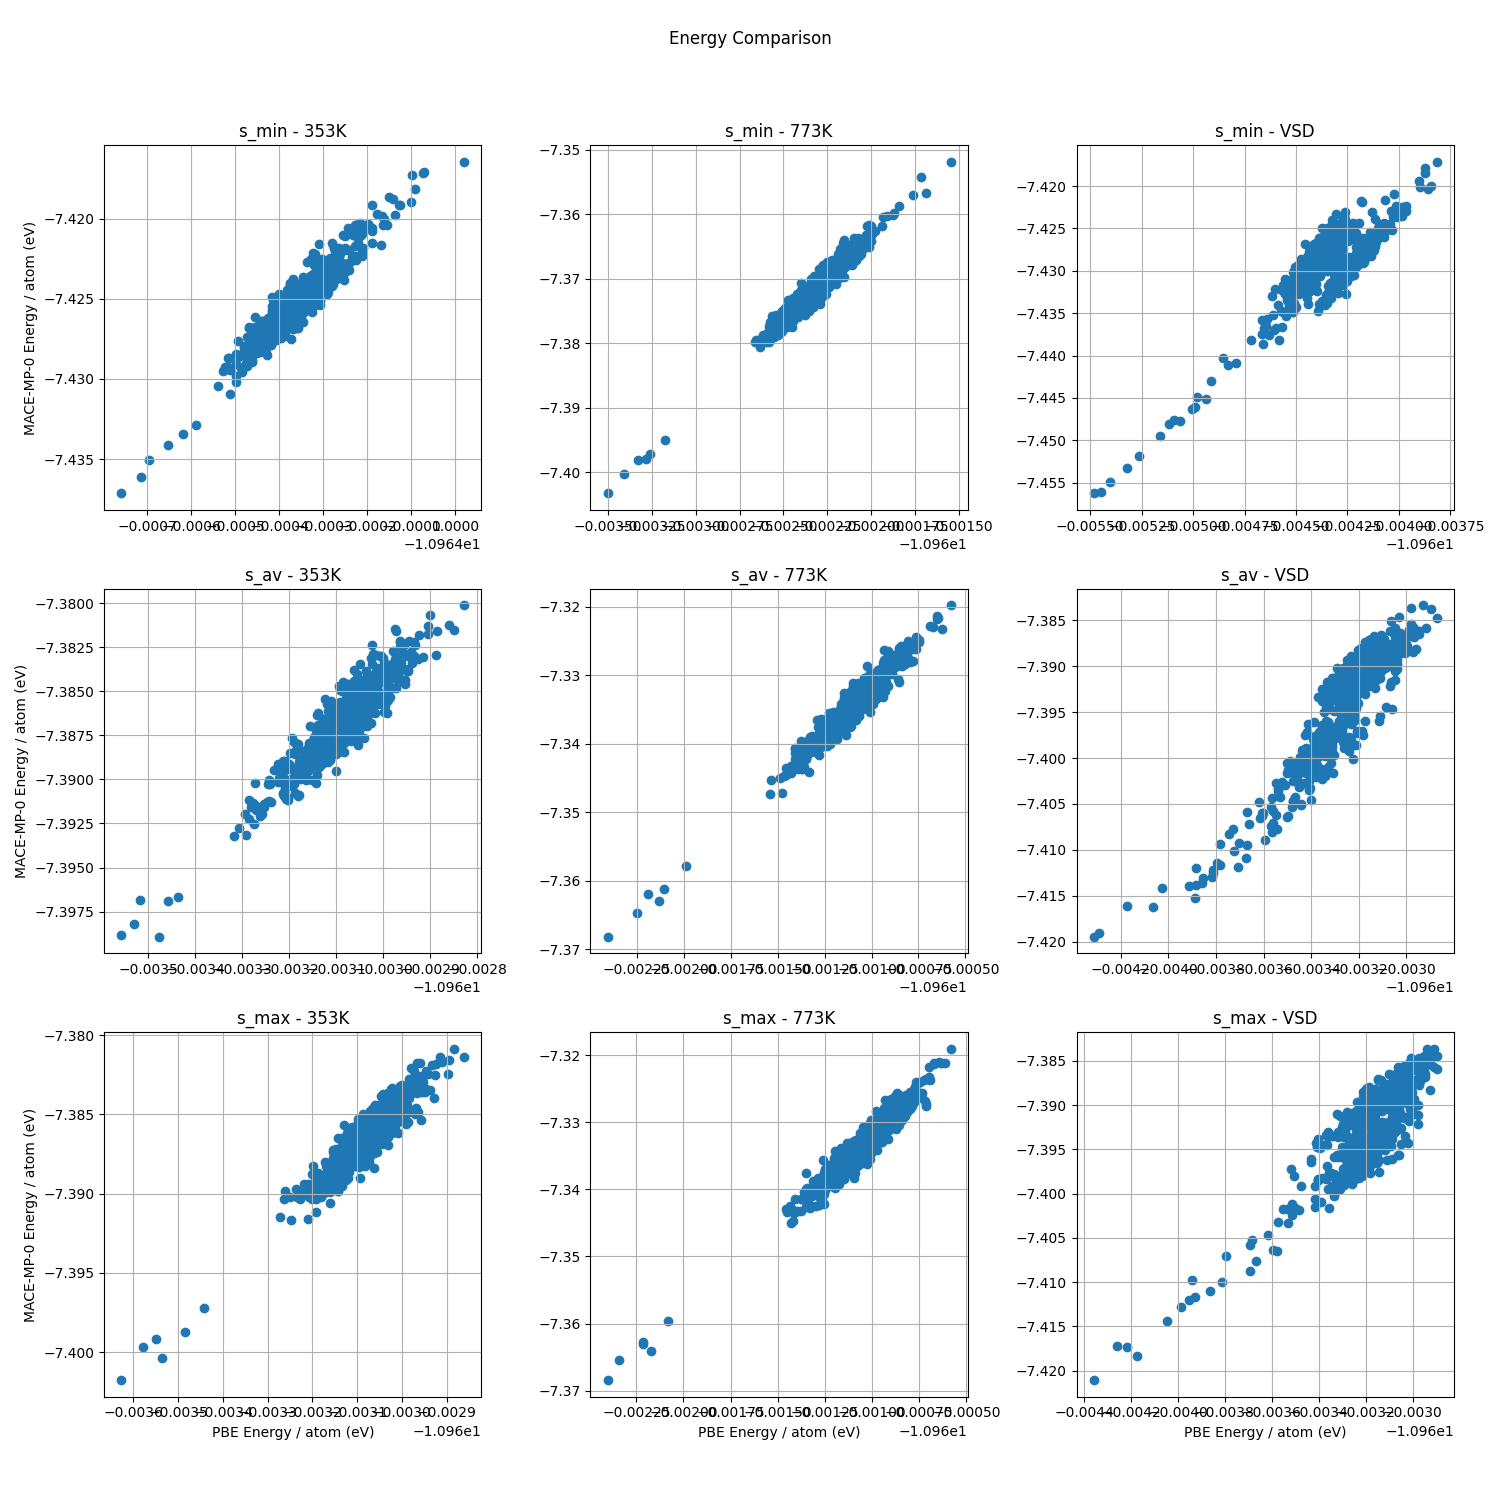
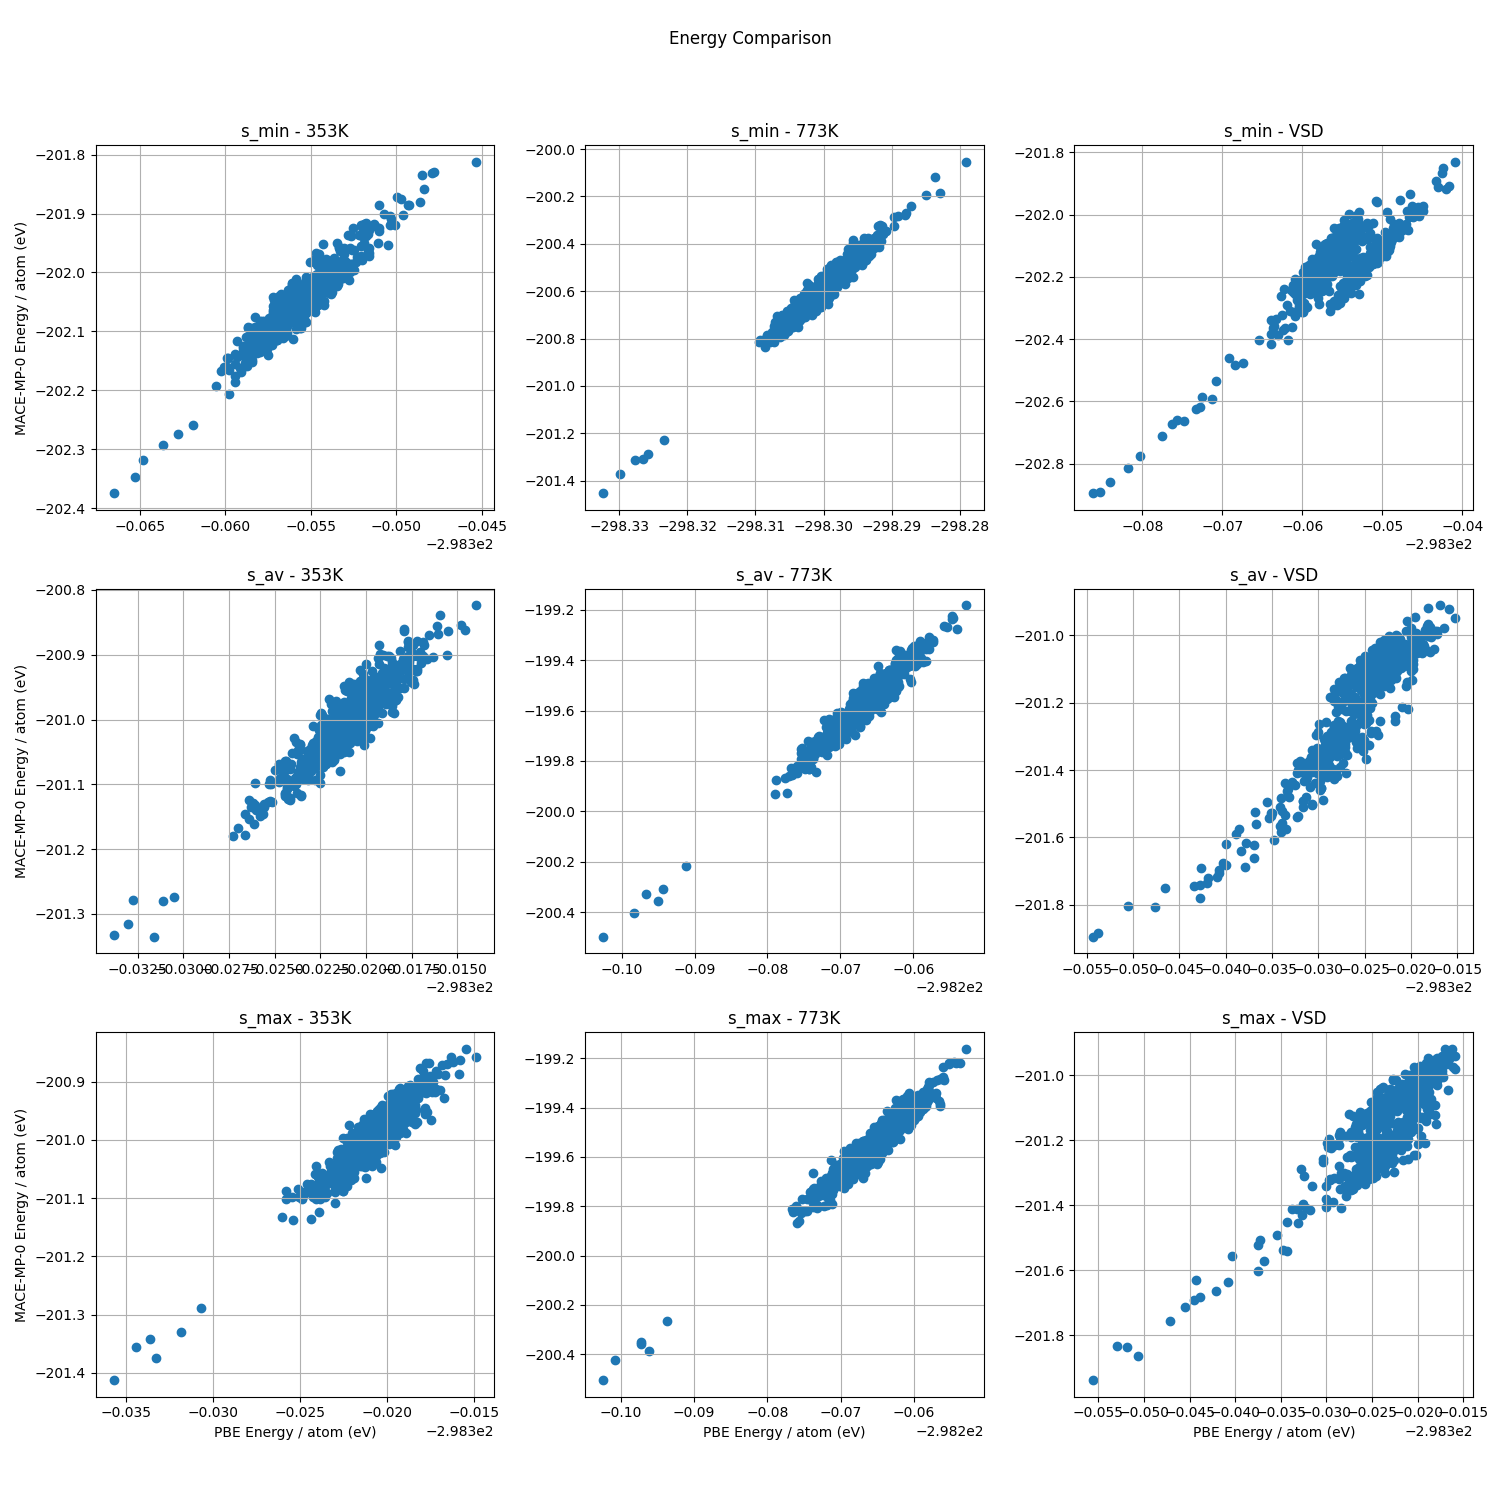
Update plots, convert units

diff --git a/ASE/plot_forces_energy.py b/ASE/plot_forces_energy.py
@@ -6,7 +6,7 @@ def load_npz_data(base_path, strain_surface, sim_type, temp_folder, file_name):
     """
     Loads npz data for a specific strain surface, simulation type, and temperature folder.
 
-    This function constructs the path to an npz file using the provided base path, strain surface,
+    This function constructs the path to a npz file using the provided base path, strain surface,
     simulation type, temperature folder, and file name. It attempts to load energies and forces
     from the specified npz file. If the file is missing or an error occurs, it returns None for both.
 
@@ -77,8 +77,11 @@ def plot_energies(base_path, sim_types, sim_type_legends, strain_surfaces, strai
                 ax = axes[i, j]
 
                 if pbe_energies is not None and mace_energies is not None:
-                    _, _, natoms = pbe_forces.shape
-                    ax.scatter(pbe_energies/natoms, mace_energies/natoms, label=f'{sim_type_legends[sim_idx]} Energies')
+                    _, _, atoms = pbe_forces.shape
+                    ax.scatter(pbe_energies/atoms*27.2114079527,
+                               mace_energies/atoms*27.2114079527,
+                               label=f'{sim_type_legends[sim_idx]} Energies'
+                               )
 
                     # Set custom titles using strain_surface_names and temp_folder_names
                     strain_surface_name = strain_surface_names[i] if i < len(strain_surface_names) else strain_surface
@@ -103,10 +106,7 @@ def plot_energies(base_path, sim_types, sim_type_legends, strain_surfaces, strai
 
                 ax.grid(True)
 
-    #for ax in axes.flatten():
-    #    ax.legend(loc=2)
-
-        plt.tight_layout(rect=(0.0, 0.03, 1.0, 0.95))  # Adjust layout to make space for the title
+        plt.tight_layout(rect=(0.0, 0.03, 1.0, 0.95))
 
         fig.savefig(os.path.join(base_path, f'Energy_Comparison_{sim_type}_{file2.split('_')[0]}.png'))
         plt.show()
@@ -144,7 +144,7 @@ def plot_forces(base_path, sim_types, sim_type_legends, strain_surfaces, strain_
     :param plot_both: Whether to plot forces of mace0 and mace1 in the same plot or not (default is False).
     :type plot_both: bool
     """
-    for sim_idx, sim_type in enumerate(sim_types):  # Loop through simulation types and create separate plots
+    for sim_idx, sim_type in enumerate(sim_types):
         fig, axes = plt.subplots(3, 3, figsize=(15, 15))
         fig.suptitle(f"Force Comparison for {sim_type_legends[sim_idx+2]}")
 
@@ -157,18 +157,20 @@ def plot_forces(base_path, sim_types, sim_type_legends, strain_surfaces, strain_
                 ax = axes[i, j]
 
                 if pbe_forces is not None and mace0_forces is not None and mace1_forces is not None:
-                    pbe_forces_flat = pbe_forces.reshape(-1)  # Flatten to 1D
-                    mace0_forces_flat = mace0_forces.reshape(-1)  # Flatten to 1D
-                    mace1_forces_flat = mace1_forces.reshape(-1)  # Flatten to 1D
+                    pbe_forces_flat = pbe_forces.reshape(-1)*51.422086190832      # Flatten and convert Eh/B -> eV/A
+                    mace0_forces_flat = mace0_forces.reshape(-1)*51.422086190832  # Flatten and convert Eh/B -> eV/A
+                    mace1_forces_flat = mace1_forces.reshape(-1)*51.422086190832  # Flatten and convert Eh/B -> eV/A
                     _, _, natoms = pbe_forces.shape
 
                     if plot_both:
-                        ax.scatter(pbe_forces_flat, mace0_forces_flat, marker='.', alpha=0.5,
-                               label=f'mace0')
+                        ax.scatter(pbe_forces_flat, mace0_forces_flat, marker='.', alpha=0.5, label=f'mace0')
+                        ax.set_ylim(-600, 600)
+                        ax.set_xlim(-12.5, 12.5)
+                    else:
+                        ax.set_ylim(-12.5, 12.5)
+                        ax.set_xlim(-12.5, 12.5)
 
-                    ax.scatter(pbe_forces_flat, mace1_forces_flat, marker='.', alpha=0.5,
-                    #           label=f'{sim_type_legends[sim_idx]} Forces')
-                                label=f'mace1')
+                    ax.scatter(pbe_forces_flat, mace1_forces_flat, marker='.', alpha=0.5, label=f'mace1')
 
                     # Set custom titles using strain_surface_names and temp_folder_names
                     strain_surface_name = strain_surface_names[i] if i < len(strain_surface_names) else strain_surface
@@ -181,23 +183,21 @@ def plot_forces(base_path, sim_types, sim_type_legends, strain_surfaces, strain_
                     if j == 0:
                         ax.set_ylabel('MACE-MP-0 Forces (eV/A)')
 
-                    ax.set_xlim(-0.3, 0.3)
-                    ax.set_ylim(-0.3, 0.3)
-                    ax.set_xticks([-0.3, -0.2, -0.1, 0, 0.1, 0.2, 0.3])
-                    ax.set_yticks([-0.3, -0.2, -0.1, 0, 0.1, 0.2, 0.3])
-
                 else:
                     ax.text(0.5, 0.5, 'No Data', horizontalalignment='center', verticalalignment='center')
                     ax.set_title(f'{strain_surface_name} - {temp_folder_name}')
 
                 ax.grid(False)
 
-        # for ax in axes.flatten():
-        #    ax.legend(loc=2)
+        if plot_both:
+            for ax in axes.flatten():
+               ax.legend(loc=2)
 
-        plt.tight_layout(rect=(0.0, 0.03, 1.0, 0.95))  # Adjust layout to make space for the title
-
-        fig.savefig(os.path.join(base_path, f'Force_Comparison_{sim_type_legends[sim_idx]}.png'))
+        plt.tight_layout(rect=(0.0, 0.03, 1.0, 0.95))
+        if plot_both:
+            fig.savefig(os.path.join(base_path, f'Force_Comparison_{sim_type_legends[sim_idx]}_both.png'))
+        else:
+            fig.savefig(os.path.join(base_path, f'Force_Comparison_{sim_type_legends[sim_idx]}_mace1.png'))
 
     plt.show()
 
@@ -212,29 +212,6 @@ def main():
     strain_surfaces_names = ["s_min", "s_av", 's_max']
     temperature_folders = ["aiMD_353K", "aiMD_773K", "Velocity_softening_dynamics"]
     temperature_folders_names = ["353K", "773K", "VSD"]
-    axis_lims_mace0 = (
-        (
-            (-10.925, -10.92), (-7.45, -7.30),
-            [-10.92, -10.921, -10.922, -10.923, -10.924, -10.925],
-            [-7.42, -7.4, -7.38, -7.36, -7.34, -7.32, -7.30]),
-        (
-            (-10.9675, -10.96), (-7.475, -7.3),
-            [-10.9675, -10.965, -10.9625, -10.96],
-            [-7.45, -7.425, -7.4, -7.375, -7.35, -7.325, -7.3]
-            #[-7.42, -7.4, -7.38, -7.36, -7.34, -7.32, -7.30]
-        )
-    )
-    axis_lims_mace1 = (
-        (
-            (-10.925, -10.920), (-10.924, -10.921),
-            [-10.925, -10.924, -10.923, -10.922, -10.921, -10.920],
-            [-10.924, -10.923, -10.922, -10.921]),
-        (
-            (-10.965, -10.96), (-10.96, -10.955),
-            [-10.9625],
-            [-10.9575, -10.955]
-        )
-    )
 
     # Create and save energy comparison plot
     plot_energies(base_path=base_dir,
@@ -244,7 +221,6 @@ def main():
                   strain_surface_names=strain_surfaces_names,
                   temperature_folders=temperature_folders,
                   temp_folder_names=temperature_folders_names
-                  #axis_lims=axis_lims_mace0
                   )
 
     plot_energies(base_path=base_dir,
@@ -255,7 +231,6 @@ def main():
                   temperature_folders=temperature_folders,
                   temp_folder_names=temperature_folders_names,
                   file2='mace1_forces.npz'
-                  #axis_lims=axis_lims_mace1
                   )
 
     # Create and save force comparison plot
@@ -275,9 +250,8 @@ def main():
                 strain_surface_names=strain_surfaces_names,
                 temperature_folders=temperature_folders,
                 temp_folder_names=temperature_folders_names,
-                plot_both=False,
+                plot_both=True,
                 )
-
 
 if __name__ == "__main__":
     main()

diff --git a/ASE/boxplots.py b/ASE/boxplots.py
@@ -51,8 +51,9 @@ def compute_errors(pbe_data, mace_data):
     :return: A tuple containing the energy and force errors.
     :rtype: tuple
     """
-    energy_diff = np.abs(mace_data[0] - pbe_data[0])
-    force_diff = np.abs(mace_data[1].reshape(-1) - pbe_data[1].reshape(-1))  # Handle forces without reshaping PBE
+    energy_diff = np.abs(mace_data[0] - pbe_data[0]) if mace_data[0] is not None and pbe_data[0] is not None else None
+    force_diff = np.abs(mace_data[1].reshape(-1) - pbe_data[1].reshape(-1)) if mace_data[1] is not None and pbe_data[1] is not None else None
+
     return energy_diff, force_diff
 
 def plot_errors_by_simulation(base_path, strain_surfaces, sim_types, temp_folders,
@@ -79,9 +80,8 @@ def plot_errors_by_simulation(base_path, strain_surfaces, sim_types, temp_folder
     """
     for sim_type, sim_label, titles in zip(sim_types, ['ZrH_Sim', 'AC_Sim'], ['Active ZrH Site Simulations', 'Adsorption Complex Simulations']):
         fig_energy, axes_energy = plt.subplots(2, 1, figsize=(12, 12), sharex=True)
-        fig_energy.suptitle(f'{titles} Energy Errors')
-
         fig_forces, axes_forces = plt.subplots(2, 1, figsize=(12, 12), sharex=True)
+        fig_energy.suptitle(f'{titles} Energy Errors')
         fig_forces.suptitle(f'{titles} Force Errors')
 
         for ax_idx, (file, title) in enumerate(zip(['mace0_forces.npz', 'mace1_forces.npz'],
@@ -92,36 +92,45 @@ def plot_errors_by_simulation(base_path, strain_surfaces, sim_types, temp_folder
                 for temp_folder, temp_folder_name in zip(temp_folders, temp_folder_names):
                     pbe_energies_raw, pbe_forces_raw = load_npz_data(base_path, strain_surface, sim_type, temp_folder,
                                                              file1)
-                    mace_energies_raw, mace_forces = load_npz_data(base_path, strain_surface, sim_type, temp_folder,
+                    mace_energies_raw, mace_forces_raw = load_npz_data(base_path, strain_surface, sim_type, temp_folder,
                                                                file)
-                    pbe_forces = reshape_forces(pbe_forces_raw)
-                    pbe_energies = pbe_energies_raw/505
-                    mace_energies = mace_energies_raw/505
+                    atoms = np.shape(mace_forces_raw)[1]
+                    pbe_forces = reshape_forces(pbe_forces_raw)*51.422086190832 # from Eh/B to eV/A
+                    pbe_energies = pbe_energies_raw/atoms*27.2114079527         # from Eh to eV
+                    mace_forces = mace_forces_raw*51.422086190832               # from Eh/B to eV/A
+                    mace_energies = mace_energies_raw/atoms*27.2114079527       # from Eh to eV
 
                     if pbe_energies is not None and mace_energies is not None:
+                        min_threshold = 1e-5
                         energy_err, force_err = compute_errors((pbe_energies, pbe_forces),
                                                                (mace_energies, mace_forces))
-                        energy_errors.append(energy_err)
-                        force_errors.append(force_err)
+                        filtered_energy_err = [err for err in energy_err if abs(err) >= min_threshold]
+                        filtered_force_err = [err for err in force_err if abs(err) >= min_threshold]
+                        energy_errors.append(filtered_energy_err)
+                        force_errors.append(filtered_force_err)
 
             axes_energy[ax_idx].boxplot(energy_errors, patch_artist=True)
             axes_energy[ax_idx].set_title(title)
             axes_forces[ax_idx].boxplot(force_errors, patch_artist=True)
             axes_forces[ax_idx].set_title(title)
+            if ax_idx == 0:
+                axes_energy[ax_idx].set_ylim(94, 100)
 
         for ax in axes_energy:
-            ax.set_xticks(range(1, 10))  # 9 total combinations
+            ax.set_xticks(range(1, 10))
             ax.set_xticklabels([f'{s}_{t}' for s in strain_surface_names for t in temp_folder_names], rotation=45)
             ax.set_ylabel('Energy Errors / Atom (eV)')
 
         for ax in axes_forces:
-            ax.set_xticks(range(1, 10))  # 9 total combinations
+            print(ax)
+            ax.set_xticks(range(1, 10))
             ax.set_xticklabels([f'{s}_{t}' for s in strain_surface_names for t in temp_folder_names], rotation=45)
             ax.set_ylabel('Force Errors (eV/A)')
+            ax.set_yscale('log')
+            ax.set_ylim(1e-6, 1e4)
 
         fig_energy.savefig(os.path.join(base_path, f'{sim_label}_energy_errors.png'))
         fig_forces.savefig(os.path.join(base_path, f'{sim_label}_force_errors.png'))
-
         plt.show()
 
 def main():
@@ -137,7 +146,7 @@ def main():
     file1 = "PBE_forces.npz"
 
     plot_errors_by_simulation(base_dir, strain_surfaces, sim_types, temperature_folders,
-                              strain_surface_names, temperature_folders_names, file1)
+                               strain_surface_names, temperature_folders_names, file1)
 
 if __name__ == '__main__':
     main()
